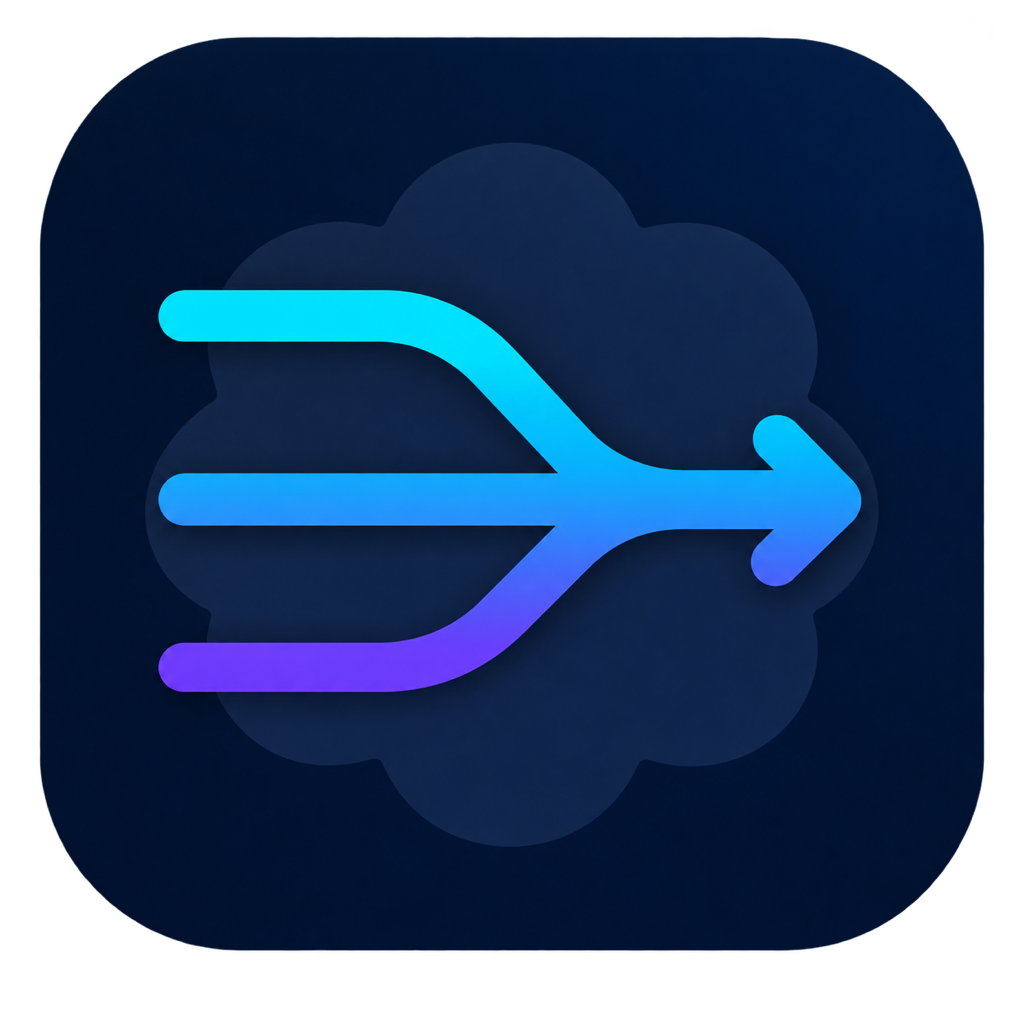
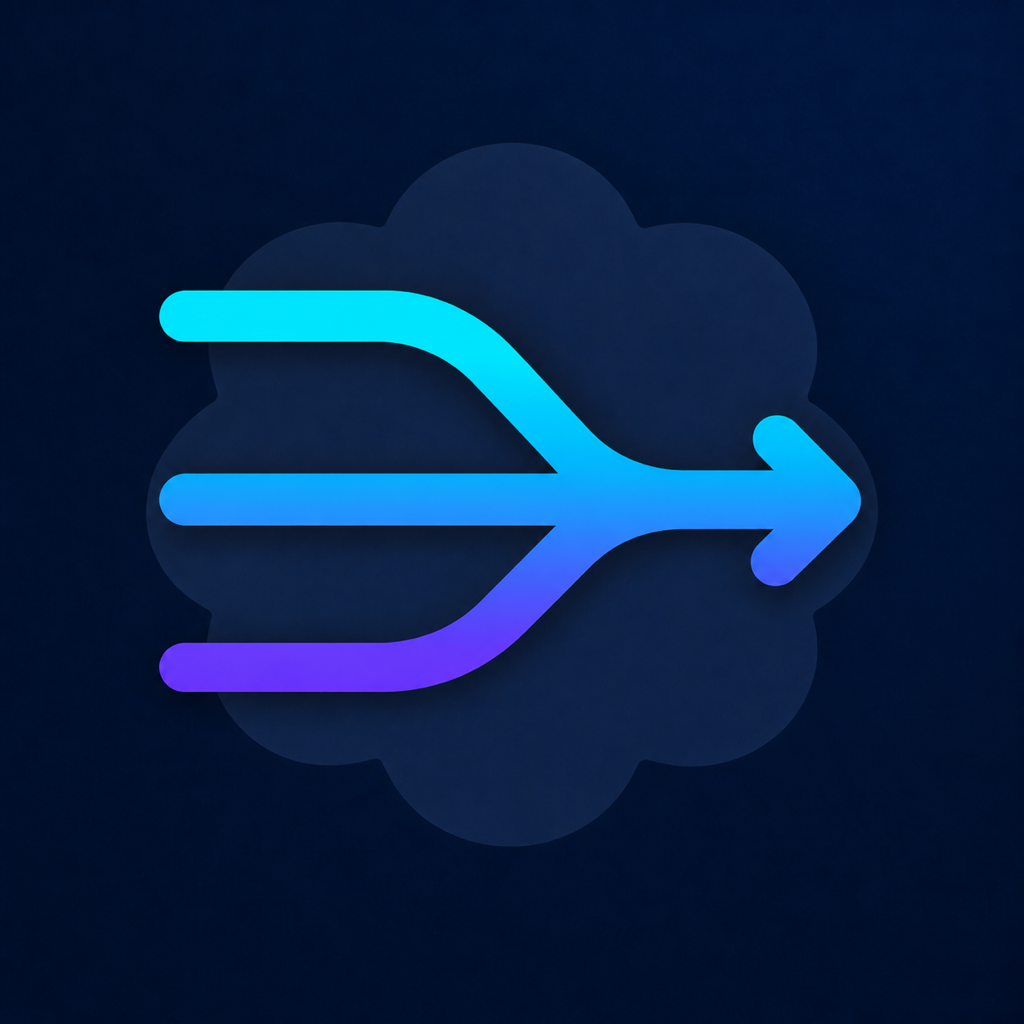
docs: improve README and visual assets

Changed region(s): [[0.0, 0.0, 1.0, 1.0]]

diff --git a/Assets/README.md b/Assets/README.md
@@ -5,3 +5,9 @@ not derived from the upstream OpenCodex logo or from a provider's brand mark.
 
 The mark represents three provider routes converging into one local route. The
 build script generates all required `.icns` sizes from this 1024 × 1024 source.
+
+Product screenshots used by the repository README live in `screenshots/`:
+
+- `overview.png` — service and provider overview.
+- `accounts.png` — account pool and rotation strategy.
+- `models.png` — model catalog and visibility controls.
